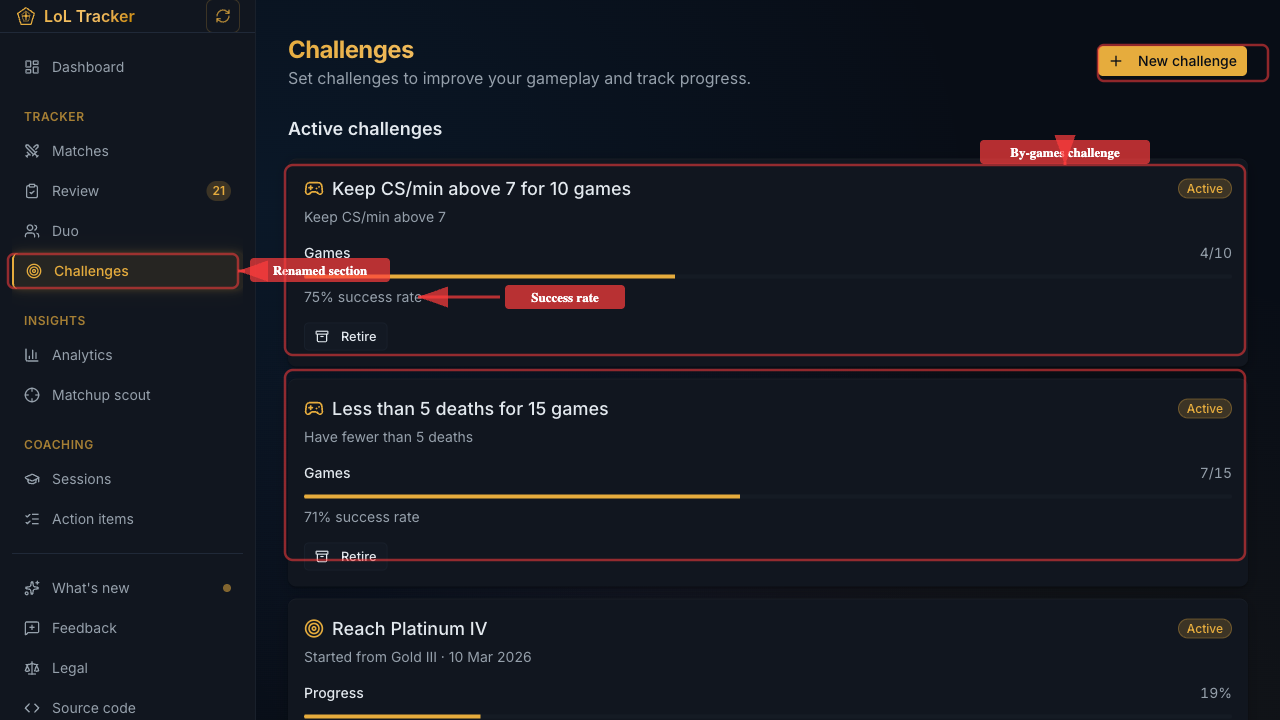
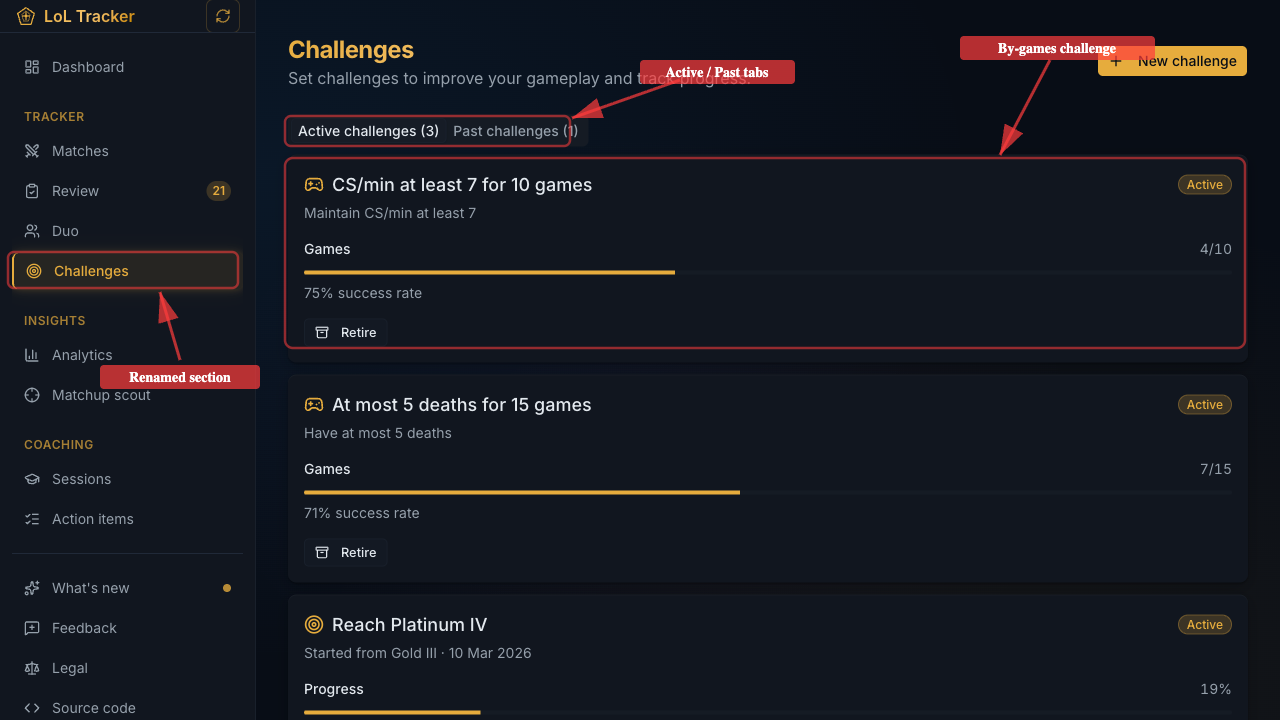
feat: wire by-games evaluation into sync, add screenshots and update changelogs
- Call evaluateByGamesChallenges after each match insert in sync route
  so by-games challenges auto-complete/fail based on match stats
- Capture before/after screenshots for goals→challenges transition
- Annotate after screenshots with proper arrow spacing
- Update changelog entries (en/es) with before/after image grids
- Update ui-screenshots skill with arrow distance rule

diff --git a/src/app/api/sync/route.ts b/src/app/api/sync/route.ts
@@ -2,7 +2,7 @@ import { eq, desc } from "drizzle-orm";
 
 import { db } from "@/db";
 import { matches, rankSnapshots, riotAccounts } from "@/db/schema";
-import { checkByDateChallenges } from "@/lib/challenges";
+import { checkByDateChallenges, evaluateByGamesChallenges } from "@/lib/challenges";
 import { checkGoalAchievement } from "@/lib/goals";
 import { checkRateLimit, hasRecentEvent } from "@/lib/rate-limit";
 import { calculateAdaptiveDelay } from "@/lib/rate-limiter";
@@ -378,6 +378,9 @@ export async function GET(request: Request) {
               });
 
             syncedCount++;
+
+            // Evaluate by-games challenges against this match
+            await evaluateByGamesChallenges(user.id, matchId);
           } catch (matchError) {
             console.error(`Failed to sync match ${matchId}:`, matchError);
             failedCount++;

diff --git a/.opencode/skills/ui-screenshots/SKILL.md b/.opencode/skills/ui-screenshots/SKILL.md
@@ -41,7 +41,7 @@ Use an HTML overlay technique — load the screenshot as a background image and 
 - **Rectangles**: Rounded, semi-transparent border — `rgba(255, 60, 60, 0.55)` stroke, 2-3px width, no fill (or very light fill like `rgba(255, 60, 60, 0.05)`)
 - **Labels**: White text on `rgba(255, 60, 60, 0.7)` background, 14px bold, with 4-8px padding and border-radius
 - **Small elements**: If a highlight box/circle would be too small to see, skip it and use only an arrow with a label
-- **Breathing room**: Place labels farther from the annotated element — not directly touching it
+- **Breathing room**: Arrows and labels must have significant distance from their target element — at least 40-60px of clear space between the arrowhead and the highlighted area. Annotations that are too close to their targets look cramped and are hard to read. Think of the arrow as "pointing from afar" rather than touching the element. A good reference: if the arrow barely needs to travel, it's too close.
 
 #### Annotation technique
 
